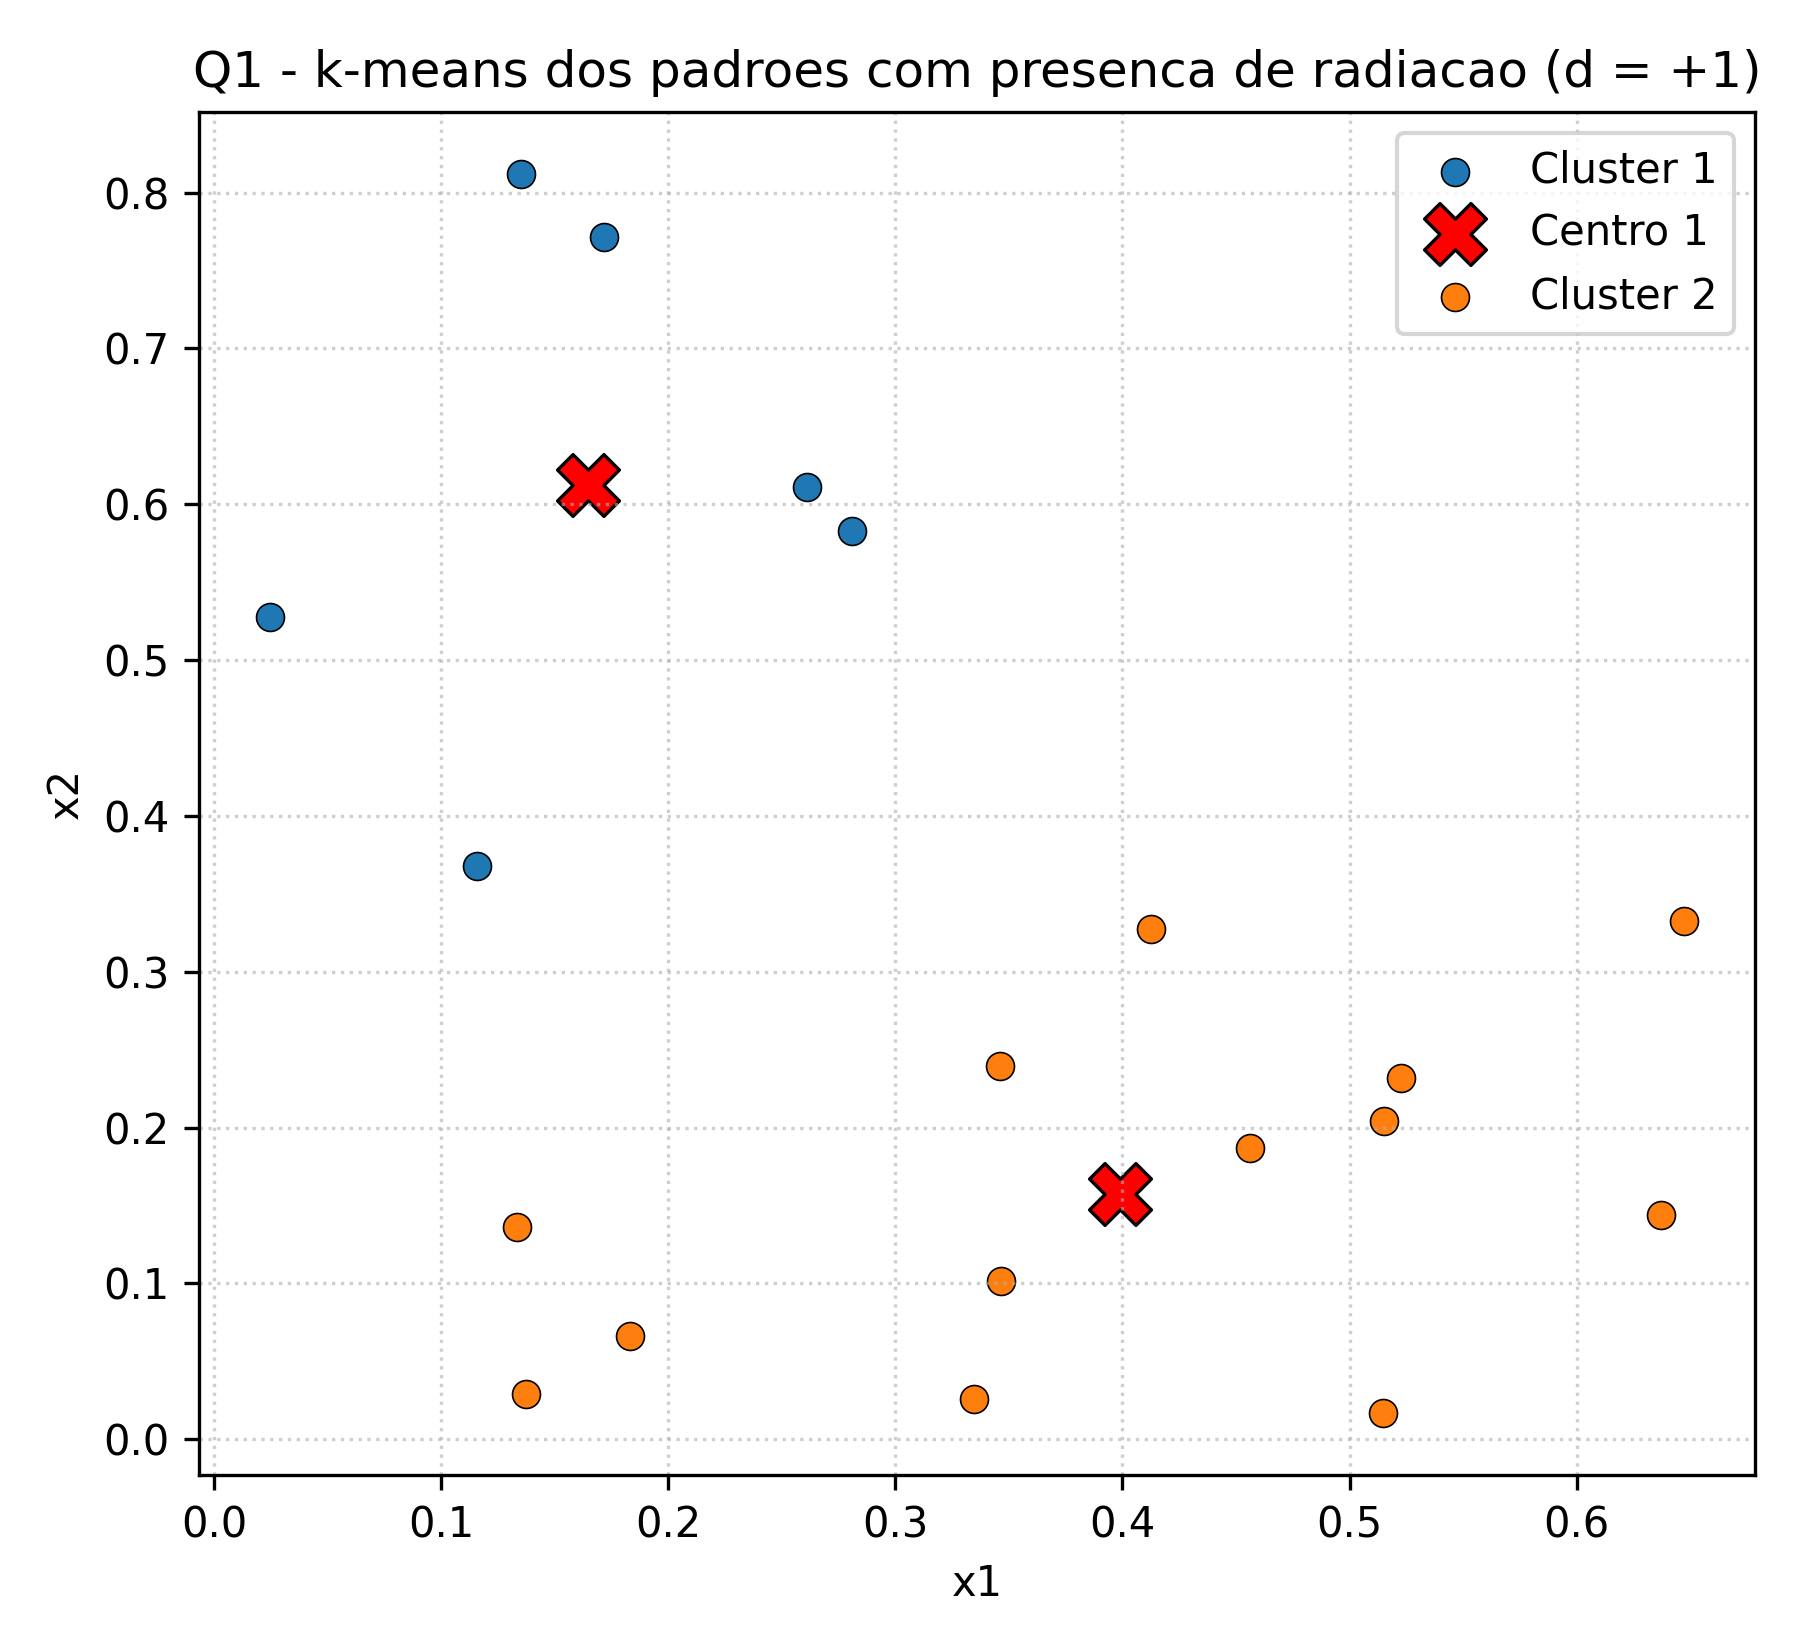
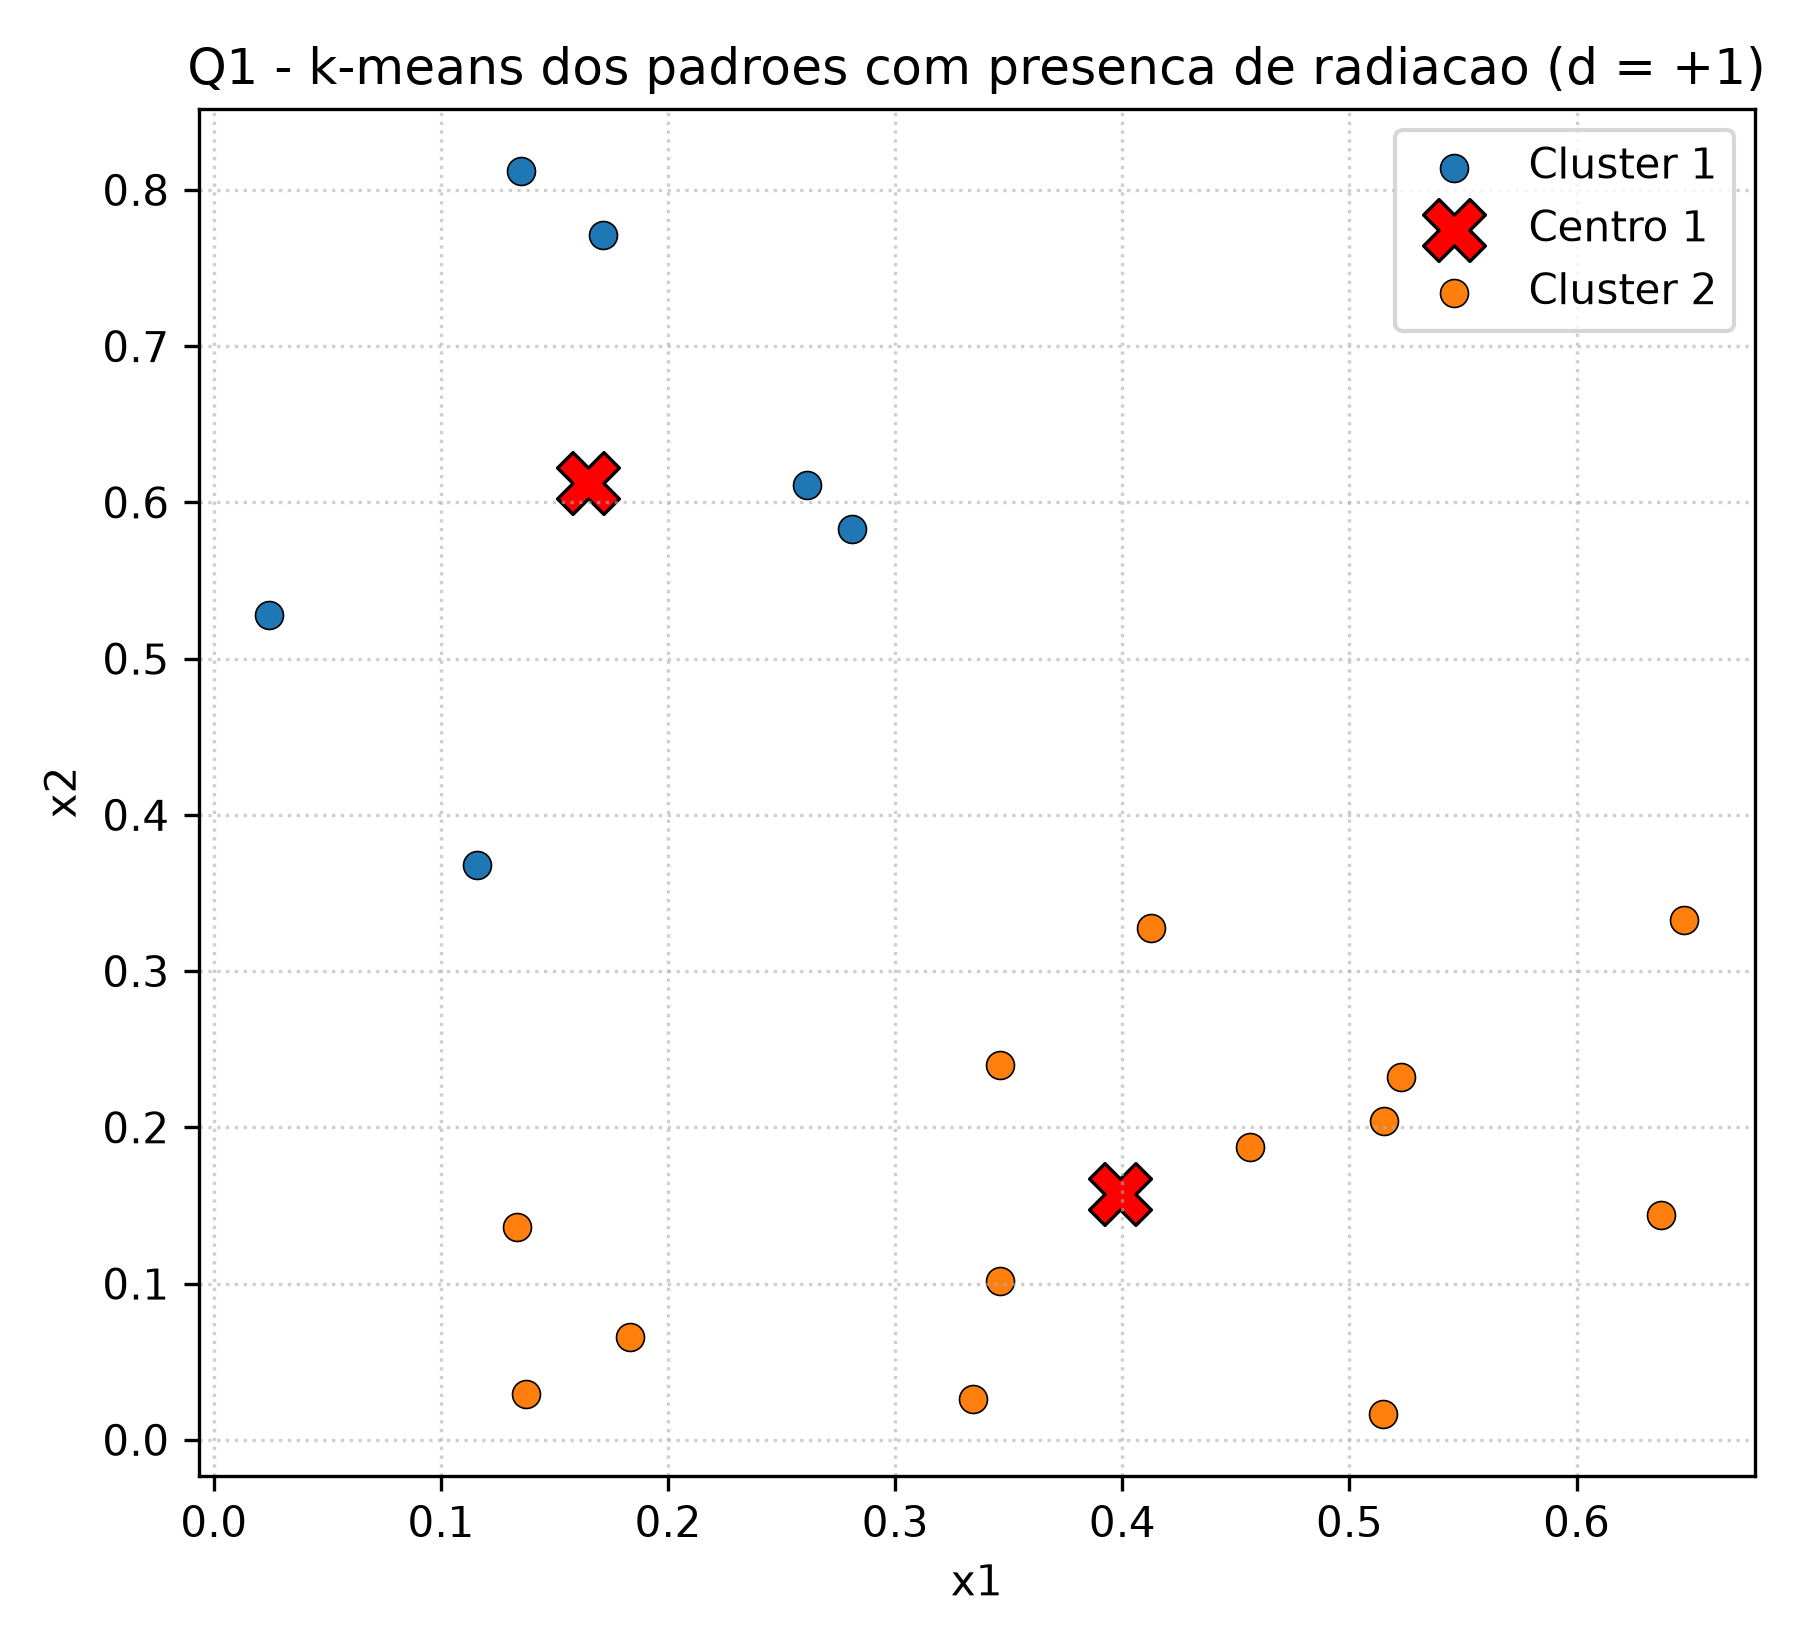
ajustes wendell

diff --git a/main.py b/main.py
@@ -57,47 +57,54 @@ D_VALIDACAO = np.array([-1, 1, -1, 1, -1, -1, 1, 1, -1, -1], dtype=float)
 # Treinamento da camada escondida - algoritmo k-means
 # =============================================================================
 
-def kmeans(X, k, seed=0, max_iter=300, tol=1e-12):
+def kmeans(X, k, max_iter=300):
     """Agrupa as amostras X em k clusters pelo algoritmo k-means.
 
-    Etapas (livro Silva et al., 1o estagio de treinamento da RBF):
-      1. Inicializa os centroides com k amostras distintas sorteadas;
-      2. Atribui cada amostra ao centroide mais proximo (distancia euclidiana);
-      3. Recalcula cada centroide como a media das amostras a ele atribuidas;
-      4. Repete 2-3 ate a estabilizacao dos centroides.
+    Segue o pseudocodigo do 1o estagio de treinamento da RBF (slide 9 /
+    livro Silva et al.):
+      <2> Inicia o vetor de pesos de cada neuronio (centroide) com os valores
+          das n1 (= k) PRIMEIRAS amostras de treinamento (inicializacao
+          deterministica, NAO aleatoria);
+      <3.1> Atribui cada amostra ao centroide mais proximo (dist. euclidiana);
+      <3.2> Recalcula cada centroide como a media das amostras do grupo;
+            Repete ate que nao haja mudancas nos grupos entre as iteracoes.
 
     Retorna (centroides k x 2, rotulos N)."""
-    rng = np.random.default_rng(seed)
-    centroides = X[rng.choice(len(X), size=k, replace=False)].copy()
+    # <2> n1 (= k) primeiras amostras de treinamento como centros iniciais
+    centroides = X[:k].copy()
 
-    rotulos = np.zeros(len(X), dtype=int)
+    rotulos = np.full(len(X), -1, dtype=int)
     for _ in range(max_iter):
-        # --- Atribuicao: distancia de cada amostra a cada centroide ---
+        # --- <3.1> Atribuicao: distancia de cada amostra a cada centroide ---
         distancias = np.linalg.norm(X[:, None, :] - centroides[None, :, :], axis=2)
         novos_rotulos = np.argmin(distancias, axis=1)
 
-        # --- Atualizacao: media das amostras de cada cluster ---
-        novos_centroides = np.array([
-            X[novos_rotulos == j].mean(axis=0) if np.any(novos_rotulos == j)
+        # --- Convergencia: nenhuma amostra mudou de grupo entre iteracoes ---
+        if np.array_equal(novos_rotulos, rotulos):
+            break
+        rotulos = novos_rotulos
+
+        # --- <3.2> Atualizacao: media das amostras de cada cluster ---
+        centroides = np.array([
+            X[rotulos == j].mean(axis=0) if np.any(rotulos == j)
             else centroides[j]
             for j in range(k)
         ])
-
-        deslocamento = np.linalg.norm(novos_centroides - centroides)
-        centroides, rotulos = novos_centroides, novos_rotulos
-        if deslocamento <= tol:
-            break
 
     return centroides, rotulos
 
 
 def variancia_cluster(X, centroide, rotulos, j):
-    """Variancia do cluster j (convencao da RBF, livro Silva et al.):
-        sigma^2_j = (1 / n_j) * Soma_{x em j} || x - c_j ||^2
-    isto e, a media das distancias euclidianas quadraticas das amostras do
-    cluster ao seu centro. Define a abertura da gaussiana do neuronio oculto."""
+    """Variancia (abertura) da gaussiana do cluster j:
+        sigma^2_j = (2 / m_j) * Soma_{x em j} || x - c_j ||^2
+    isto e, o DOBRO da distancia euclidiana quadratica media das amostras do
+    cluster ao seu centro. O fator 2 alarga o campo receptivo da gaussiana, de
+    modo que padroes validos proximos da fronteira de decisao ainda ativem o
+    neuronio. Sem ele as gaussianas ficam estreitas demais (variancias ~0.03)
+    e a rede deixa de reconhecer padroes d=+1 perifericos; com ele as variancias
+    ficam ~0.06/0.08 (Tabela 1) e a validacao atinge 90%."""
     pts = X[rotulos == j]
-    return float(np.mean(np.sum((pts - centroide) ** 2, axis=1)))
+    return float(2.0 * np.mean(np.sum((pts - centroide) ** 2, axis=1)))
 
 
 # =============================================================================
@@ -635,7 +642,7 @@ def main():
     # k-means com k = 2 (dois neuronios ocultos -> dois centros gaussianos)
     # -------------------------------------------------------------------------
     K = 2
-    centros, rotulos = kmeans(X_rad, k=K, seed=0)
+    centros, rotulos = kmeans(X_rad, k=K)
 
     # Ordena os clusters de forma deterministica (por x1 do centro) para que
     # "Cluster 1" e "Cluster 2" sejam sempre reprodutiveis entre execucoes.
@@ -768,9 +775,10 @@ def main():
     classes = ["Existente(+1)", "Inexistente(-1)"]
 
     print("Matriz de confusao (linha = verdadeiro, coluna = predito):")
-    print(f"{'Real \\ Predito':>18}" + "".join(f"{c:>17}" for c in classes))
+    cabecalho = "Real \\ Predito"
+    print(f"{cabecalho:>18}" + "".join(f"{c:>17}" for c in classes))
     for i in range(2):
-        print(f"{classes[i]:>18}" + "".join(f"{int(cm[i, j]):>17d}" for j in range(2)))
+        print(f"{classes[i]:>18}" + f"{ ''.join(f'{int(cm[i, j]):>17d}' for j in range(2))}")
 
     print(f"\n  TP = {par['TP']}   FN = {par['FN']}   "
           f"FP = {par['FP']}   TN = {par['TN']}")